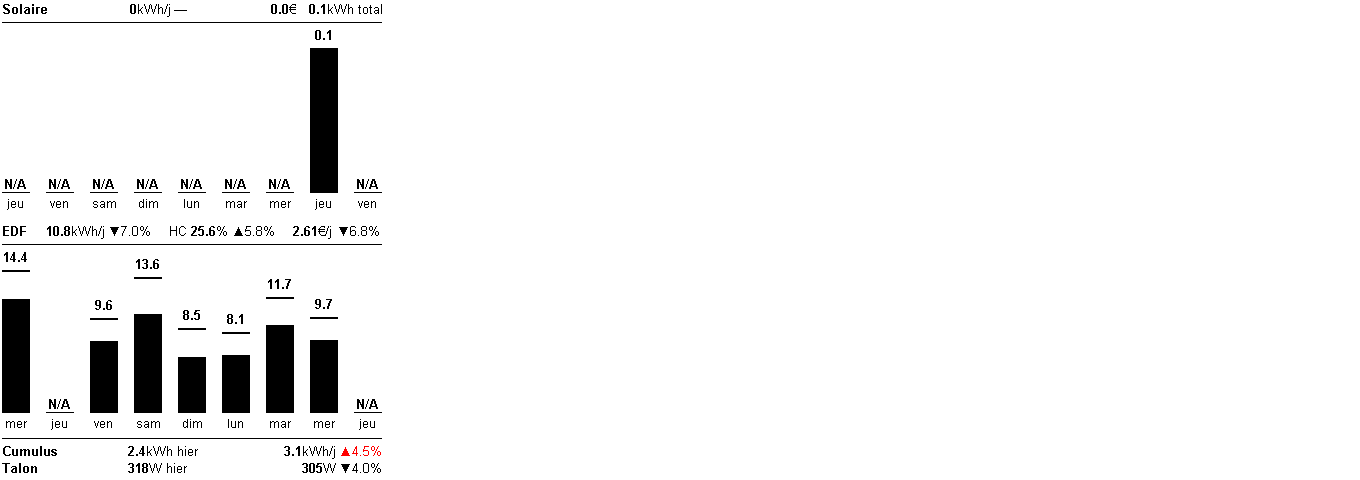
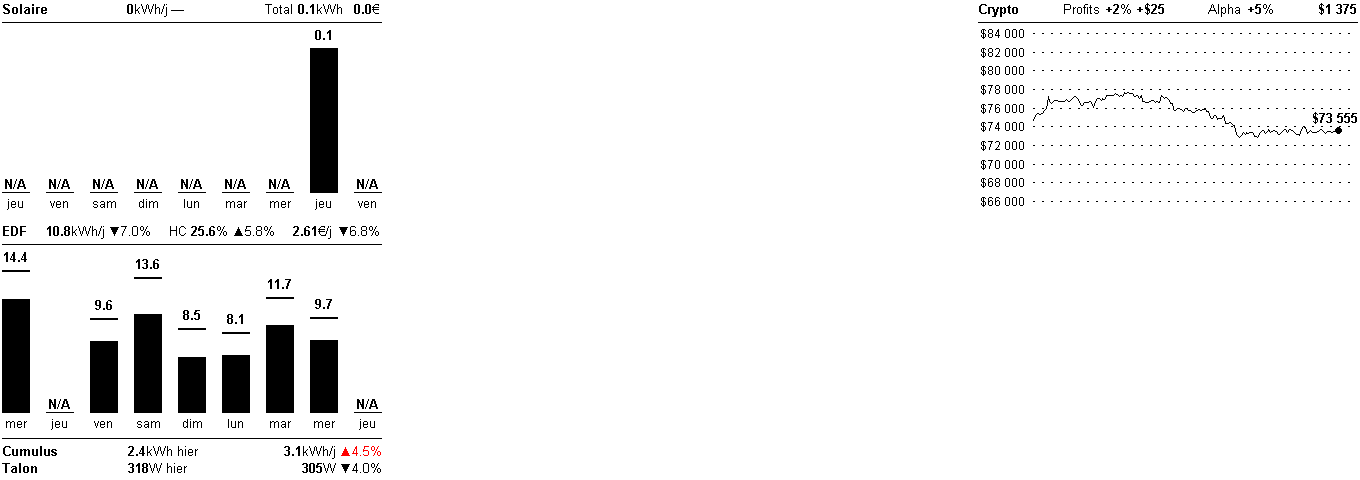
feat(solar): show solar coverage of base load (talon %) in the solar title
Add a "Talon X%" item to the solar title banner: the share of the daily
base-load (talon) energy the solar production covers, computed from the
9-day averages — avg PV kWh over the talon's daily energy (avg_w x 24h).

- linky: expose numeric talon avg_w alongside the *_text fields
- ecoflow: derive talon_cover_pct in attach() (core talon runs first)
- renderer: append the conditional "Talon X%" title item; capitalize
  the "Total" label to match the crypto banner style
- gen_preview: complete the injected talon fallback with avg_w

diff --git a/app/rendering/renderer.py b/app/rendering/renderer.py
@@ -400,13 +400,19 @@ def _build_consumption_items(stats):
 
 def _build_production_items(stats):
     # Solar: more is better, so a rising trend is good (black), falling is bad (red).
-    return [
+    items = [
         [("Solaire", "bold", BLACK)],
         [(str(stats.get('avg_kwh', 0)), "bold", BLACK), ("kWh/j ", "regular", BLACK),
          _trend(stats.get("avg_kwh_pct", 0), False)],
-        [(str(stats.get('savings_eur', 0)), "bold", BLACK), ("€   ", "regular", BLACK),
-         (str(stats.get('total_kwh', 0)), "bold", BLACK), ("kWh total", "regular", BLACK)],
+        [("Total ", "regular", BLACK), (str(stats.get('total_kwh', 0)), "bold", BLACK),
+         ("kWh   ", "regular", BLACK), (str(stats.get('savings_eur', 0)), "bold", BLACK),
+         ("€", "regular", BLACK)],
     ]
+    # Share of the base load (talon) the solar covers, when the talon is known.
+    pct = stats.get("talon_cover_pct")
+    if pct is not None:
+        items.append([("Talon ", "regular", BLACK), (str(pct), "bold", BLACK), ("%", "regular", BLACK)])
+    return items
 
 
 def _draw_stats_bar(draw, fonts, items, x, y, width, line_y):

diff --git a/app/integrations/ecoflow/__init__.py b/app/integrations/ecoflow/__init__.py
@@ -123,7 +123,15 @@ def attach(data: dict):
                 if (ds := (today - timedelta(days=i)).strftime("%Y-%m-%d")) in prod_by_date]
 
     data["production_days"] = production_days
-    data["production_stats"] = _compute_production_stats(recent, previous)
+    stats = _compute_production_stats(recent, previous)
+    # Share of the base load (talon) the solar covers: average daily PV energy
+    # over the talon's average daily energy (W → kWh/day). Core Linky runs before
+    # the optional slices, so data["talon"] is already populated.
+    talon_w = (data.get("talon") or {}).get("avg_w")
+    if talon_w and talon_w > 0:
+        talon_kwh = talon_w * 24 / 1000
+        stats["talon_cover_pct"] = round(stats["avg_kwh"] / talon_kwh * 100)
+    data["production_stats"] = stats
 
 
 def _compute_production_stats(current: list[dict], previous: list[dict]) -> dict:

diff --git a/scripts/gen_preview.py b/scripts/gen_preview.py
@@ -59,7 +59,7 @@ if "cumulus" not in data:
 # The talon needs the new talon_w column populated (one fetch cycle). On a dev DB
 # that predates it, inject representative values so the bottom Talon row shows.
 if data.get("talon", {}).get("yesterday_text") in (None, "N/A"):
-    data["talon"] = {"yesterday_text": "318", "avg_text": "305", "trend_pct": -4.0}
+    data["talon"] = {"yesterday_text": "318", "avg_text": "305", "avg_w": 305, "trend_pct": -4.0}
 
 print("days:", len(data.get("days", [])),
       "| solar:", len(data.get("production_days", [])),

diff --git a/app/integrations/linky/__init__.py b/app/integrations/linky/__init__.py
@@ -134,6 +134,7 @@ def _compute_talon(current: list[dict], previous: list[dict]) -> dict:
     return {
         "yesterday_text": f"{round(yesterday)}" if yesterday is not None else "N/A",
         "avg_text": f"{round(avg)}" if cur else "N/A",
+        "avg_w": round(avg) if cur else None,
         "trend_pct": trend_pct,
     }
 

diff --git a/README.md b/README.md
@@ -42,7 +42,7 @@ Three indicators are displayed above the chart. Each shows a **current value** a
 
 ### Solar production (optional, top chart)
 
-When an EcoFlow PowerStream is configured, the top half shows daily solar production as full-black bars (last 9 completed days). The stats banner shows the **daily average** (`kWh/j`) with its trend (▲ in black = producing more, good), the **money saved** over the period (`€`, period total valued at the peak/HP grid price) and the **period total** (`kWh total`). See the setup section below.
+When an EcoFlow PowerStream is configured, the top half shows daily solar production as full-black bars (last 9 completed days). The stats banner shows the **daily average** (`kWh/j`) with its trend (▲ in black = producing more, good), the **period total** (`Total … kWh`) with the **money saved** over the period (`€`, the total valued at the peak/HP grid price), and the **talon coverage** (`Talon … %`) — the share of the house's baseline-power energy the solar covers, i.e. the average daily production over the talon's daily energy (`avg_w × 24h`). See the setup section below.
 
 ### Crypto-bot banner (optional, top-right)
 

diff --git a/CHANGELOG.md b/CHANGELOG.md
@@ -2,6 +2,7 @@
 
 ## 2026-05-30
 
+- **Solar talon coverage** — the solar title now ends with a `Talon … %` item: the share of the house's baseline-power (talon) energy the solar production covers, computed from the 9-day averages (average daily PV kWh over the talon's daily energy, `avg_w × 24h`). Shown only when the talon is known. The title's total/savings group was relabelled to lead with `Total … kWh` (then the `€`).
 - **Talon énergétique** — the dashboard now computes the house's baseline power (the P5 of each day's 30-min Linky load curve, in W — the permanent floor: fridge, box, standby), persisted in `daily_consumption.talon_w` and backfilled from the load-curve history.
 - **Bottom table (Cumulus + Talon)** — the bottom strip became a 3-column table (name · yesterday · average + trend) under a single top separator line: the name and yesterday columns are left-aligned, the average+trend column is right-aligned. The Talon row is always shown (core Linky data), with the Cumulus row stacked above it when that integration is enabled.
 - **2px screen margin** — the whole dashboard is now inset 2px from every e-paper edge instead of bleeding edge-to-edge.